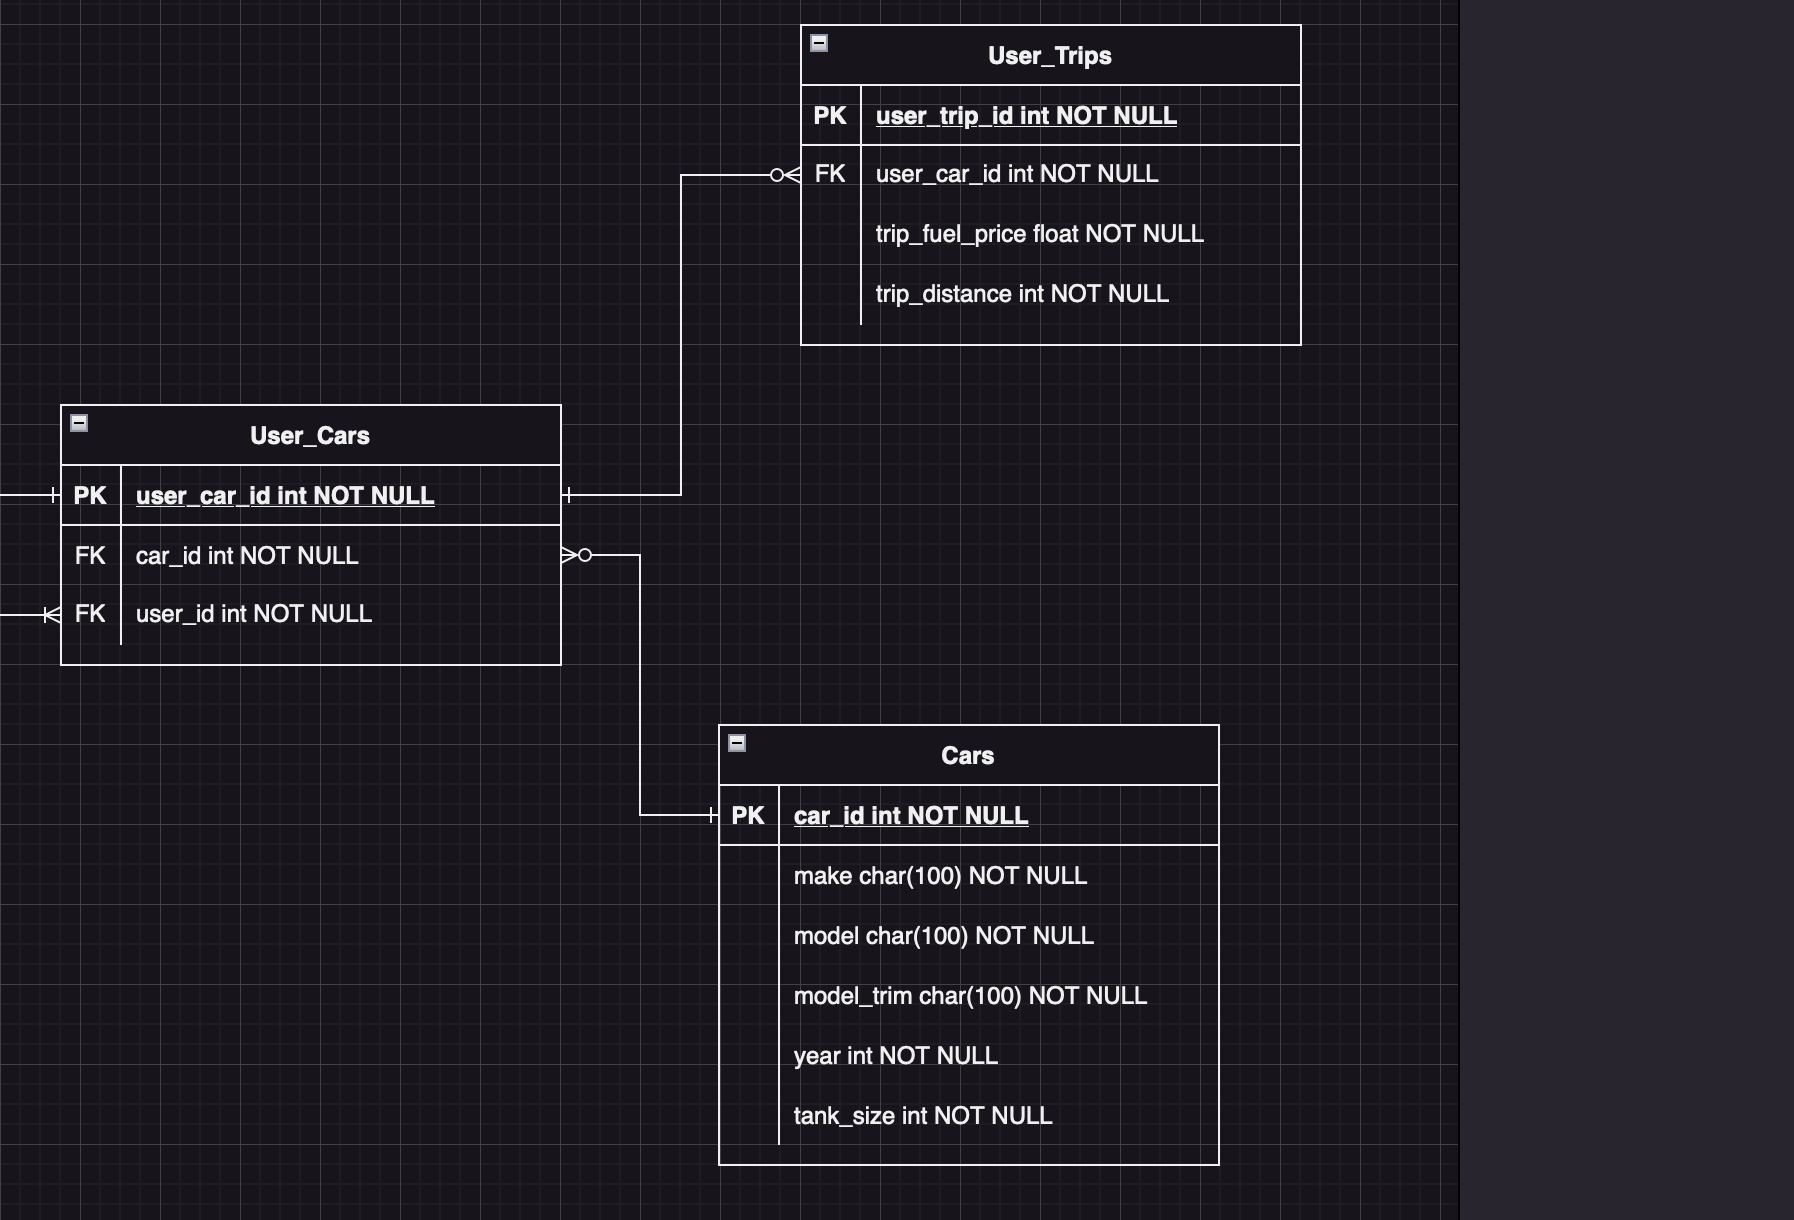
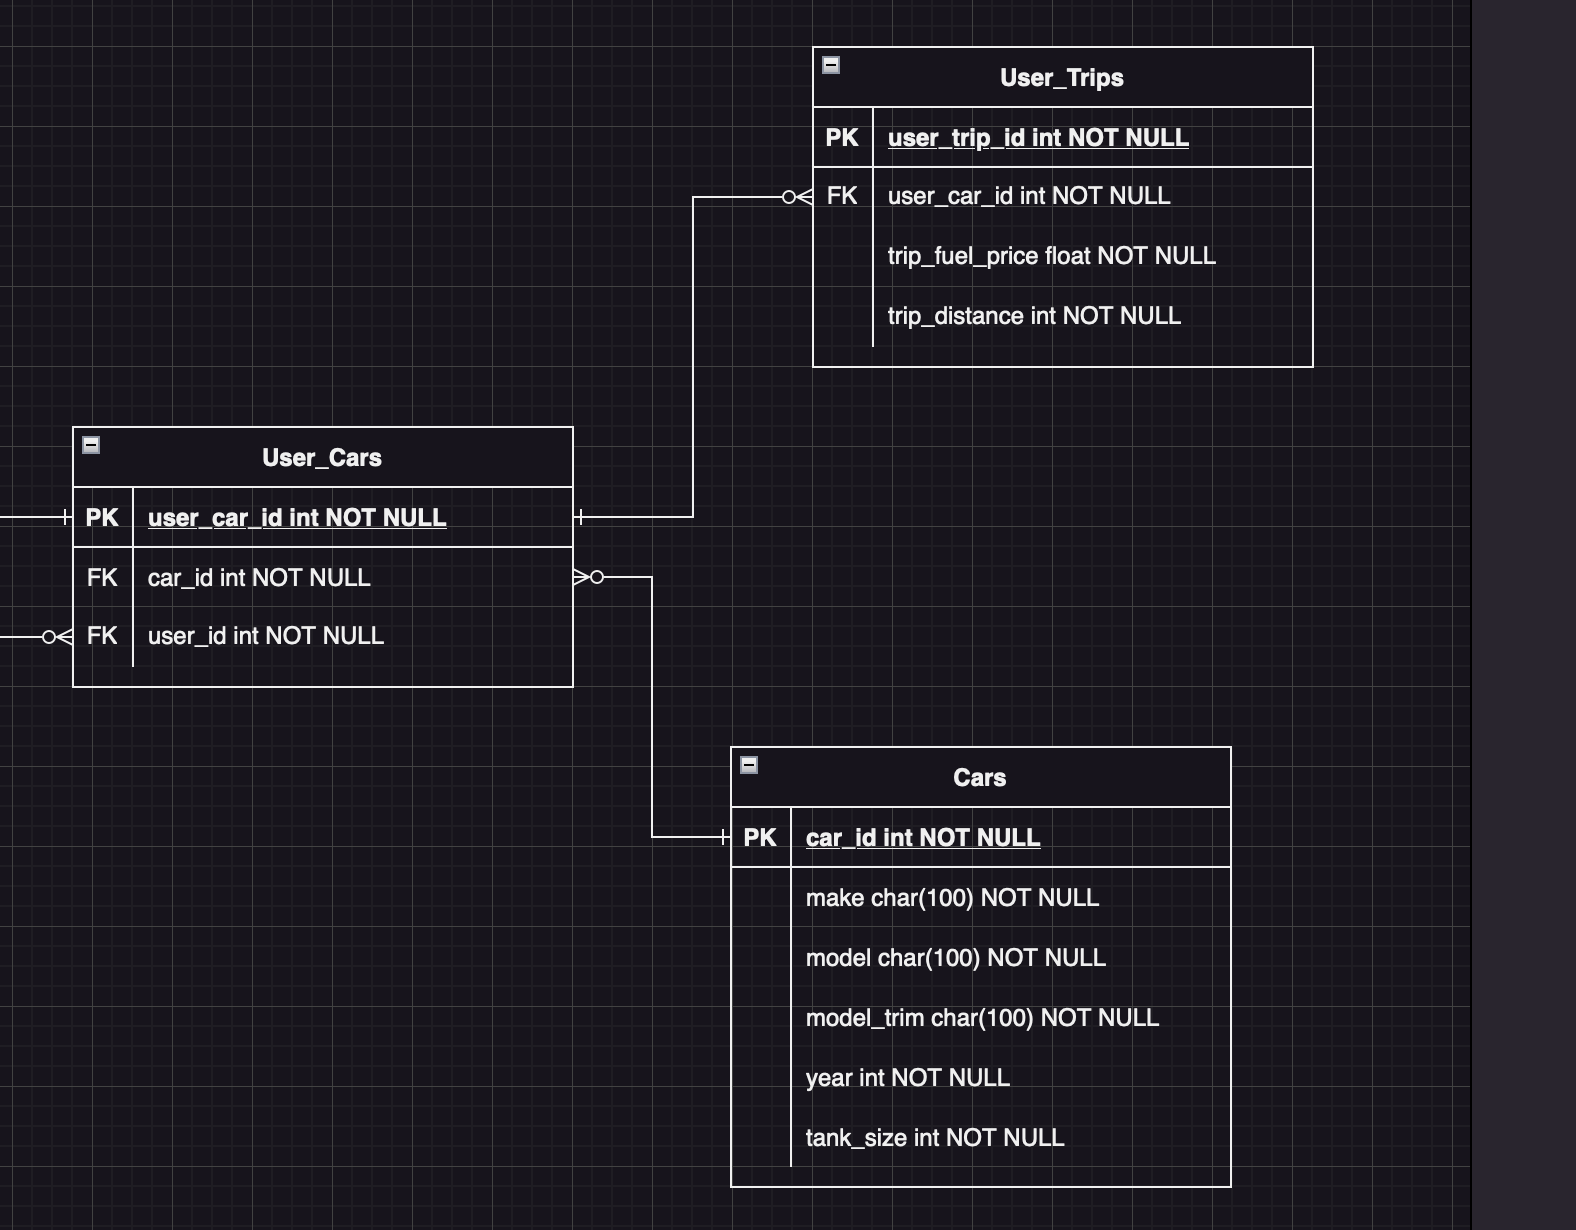
updated erd figures

diff --git a/README.md b/README.md
@@ -101,7 +101,7 @@ flask run
 The Flask application is running on the localhost on Port 5000. The endpoints can be accessed through a browser or through API development platforms such as [Postman](https://www.postman.com/) or [Insomnia](https://insomnia.rest/).
 
 ##### Seeded Users
-|email |password| Is admin? |
+|email |password| admin |
 | ---- | ---- | ---- |
 | fuellogadmin@fuellogapi.com | admin1234 | True |
 | john.smith@test.com | password123 | False |
@@ -109,9 +109,9 @@ The Flask application is running on the localhost on Port 5000. The endpoints ca
 
 ---
 
-## R5   REST API Resources
+## R5 REST API Resources
 
-Below is a full listing of all available endpoints. Click on a resource name for more information. 
+Below is a full listing of all available endpoints. Click on a resource name for more information.
 
 #### User Access and account management
 
@@ -154,19 +154,21 @@ Below is a full listing of all available endpoints. Click on a resource name for
 |[POST              /logs/me/$car_id/expenditure/](./docs/endpoints.md#post-logsmecar_idexpenditure) | Get the expenditure summary for a time period |
 |[POST              /logs/me/$car_id/expenditure/compare/](./docs/endpoints.md#post-logsmecar_idexpenditurecompare) | Compare expenditure summaries for two different periods |
 
+## [REST API Resource](./docs/endpoints.md)
+
 ---
 
 ## R7 Third Party Services
 
-This API application was created using the Flask web framework, which is a Python module that allows common interface between web servers and web applications. Because Flask was originally developed to have a small and easy-to-extend core: it's seen as a microframework and have out of the box features such as Object Relational Manager (ORM) or other features listed below. [(pythonbasics.org, 2021)](./docs/references.md#R7.1). Here are some of the third party services that were used to fully implement the API.
+This API application was created using the Flask web framework, which is a Python module that allows common interface between web servers and web applications. Because Flask was originally developed to have a small and easy-to-extend core: it's seen as a microframework and have out of the box features such as Object Relational Manager (ORM) or other features listed below. [(pythonbasics.org, 2021)](./docs/references.md#r7). Here are some of the third party services that were used to fully implement the API.
 
 ### SQLAlchemy
 
-The API uses an SQL database system to store data relating to cars, users, and log entries. In order to integrate and allow the Flask app to interact with the database, SQLAlchemy was installed as a dependency and used. SQLAlchemy is the Python ORM that is used by the app to efficiently access and perform database queries interpreting Pythonic language and then creating and executing the equivalent SQL query operation on the database. The approach that SQLAlchemy takes is that it's processes are fully exposed and it allows the developer to construct a database and the SQL queries using Python, almost the same way they would be constructed in an SQL system. [(www.sqlalchemy.org, n.d.)](./docs/references.md#R7.2)
+The API uses an SQL database system to store data relating to cars, users, and log entries. In order to integrate and allow the Flask app to interact with the database, SQLAlchemy was installed as a dependency and used. SQLAlchemy is the Python ORM that is used by the app to efficiently access and perform database queries interpreting Pythonic language and then creating and executing the equivalent SQL query operation on the database. The approach that SQLAlchemy takes is that it's processes are fully exposed and it allows the developer to construct a database and the SQL queries using Python, almost the same way they would be constructed in an SQL system. [(www.sqlalchemy.org, n.d.)](./docs/references.md#r7)
 
 ### Flask-SQLAlchemy
 
-Flask has developed an extension for SQLAlchemy to simplify the process of interacting with SQLAlchemy. It automatcally handles creating, using, and cleaning up SQLAlchemy objects. The is done by creating an extension class which then allows for cleaner SQLAlchemy operations through that extension class [(flask-sqlalchemy.palletsprojects.com, n.d.)](./docs/references.md#R7.3). i.e An SQLAlchemy model can be created using the subclass of the extension class:
+Flask has developed an extension for SQLAlchemy to simplify the process of interacting with SQLAlchemy. It automatcally handles creating, using, and cleaning up SQLAlchemy objects. The is done by creating an extension class which then allows for cleaner SQLAlchemy operations through that extension class [(flask-sqlalchemy.palletsprojects.com, n.d.)](./docs/references.md#r7). i.e An SQLAlchemy model can be created using the subclass of the extension class:
 
 ```
 # the extension class
@@ -177,32 +179,32 @@ class User(db.Model)
 
 ### Marshmallow
 
-The API uses the Marshmallow library to convert complex datatypes, to and from native Python objects. This is done through the Schema class in the Marshmallow library. It allows the app to validate input data, deserialise input data to app-level objects such as Lists or Dicts. It can also serialise app-level objects to be rendered to standard formats such JSON which can then be passed through a request. [(marshmallow.readthedocs.io, n.d.)](./docs/references.md#R7.4)
+The API uses the Marshmallow library to convert complex datatypes, to and from native Python objects. This is done through the Schema class in the Marshmallow library. It allows the app to validate input data, deserialise input data to app-level objects such as Lists or Dicts. It can also serialise app-level objects to be rendered to standard formats such JSON which can then be passed through a request. [(marshmallow.readthedocs.io, n.d.)](./docs/references.md#r7)
 
 ### Flask-Marshmallow
 
-Similar to Flask-SQLAlchemy, Flask-Marshmallow is also an extension that adds extra features which allow it to be integrated with Marhsmallow and Flask-SQLALchemy. The extension class is integrated with Flask-SQLAlchemy by being initialised after the Flask-SQLAlchemy extension class [(flask-marshmallow.readthedocs.io, n.d.)](./docs/references.md#R7.5). This extension is used to create schema classes which are used when dumping and loading JSON objects. For a schema class, fields are exposed to be dumped or loaded by the schema, and these fields are normally given a Marshmallow specific datatype class. 
+Similar to Flask-SQLAlchemy, Flask-Marshmallow is also an extension that adds extra features which allow it to be integrated with Marhsmallow and Flask-SQLALchemy. The extension class is integrated with Flask-SQLAlchemy by being initialised after the Flask-SQLAlchemy extension class [(flask-marshmallow.readthedocs.io, n.d.)](./docs/references.md#r7). This extension is used to create schema classes which are used when dumping and loading JSON objects. For a schema class, fields are exposed to be dumped or loaded by the schema, and these fields are normally given a Marshmallow specific datatype class. 
 
 ### Psycopg2-binary
 
-Psycopg is a PostgreSQL database adapter that can be used for the Python Programming language and was designed to be used for multi-threaded applications [(www.psycopg.org, n.d.)](./docs/references.md#R7.6). It allows the Flask application to connect to the PostgreSQL database, creates and destroys database cursors, and executes queries passed onto it by SQLAlchemy. [(pysql.tecladocode.com, n.d.)](./docs/references.md#R7.7)
+Psycopg is a PostgreSQL database adapter that can be used for the Python Programming language and was designed to be used for multi-threaded applications [(www.psycopg.org, n.d.)](./docs/references.md#r7). It allows the Flask application to connect to the PostgreSQL database, creates and destroys database cursors, and executes queries passed onto it by SQLAlchemy. [(pysql.tecladocode.com, n.d.)](./docs/references.md#r7)
 
 ### Flask-Bcrypt
 
-Flask-Bcrypt is used as an extension for Flask an provides the app with bcrypt hasshing utilities. Bcrypt uses a hash design that's "de-optimised", making it intentionally structured to be a slow hashing algorithm compared to other algorithms such as MD5 and SHA1. This extension when it is created and initialised in the app, provides a away for sensitive data being pass through the Flask app to be protect. [(flask-bcrypt.readthedocs.io, n.d.)](./docs/references.md#R7.8)
+Flask-Bcrypt is used as an extension for Flask an provides the app with bcrypt hasshing utilities. Bcrypt uses a hash design that's "de-optimised", making it intentionally structured to be a slow hashing algorithm compared to other algorithms such as MD5 and SHA1. This extension when it is created and initialised in the app, provides a away for sensitive data being pass through the Flask app to be protect. [(flask-bcrypt.readthedocs.io, n.d.)](./docs/references.md#r7)
 
 ### Flask-JWT-Extended
 
-This Flask extension allows the app to be able to generate JSON Web Tokens. This enables the app to protect routes and allows the app to get the identity of a JWT in a protect route. As with Flask-SQLAlchemy, Flask-Bcrypt, and Flask-Marshmallow, its utilies are made available after an extension class is created in the app. The app is secured by being configured with a JWT secret key, which is added to the JWT bearer token each time a user authenticates. [(flask-jwt-extended.readthedocs.io, n.d.)](./docs/references.md#R7.9)
+This Flask extension allows the app to be able to generate JSON Web Tokens. This enables the app to protect routes and allows the app to get the identity of a JWT in a protect route. As with Flask-SQLAlchemy, Flask-Bcrypt, and Flask-Marshmallow, its utilies are made available after an extension class is created in the app. The app is secured by being configured with a JWT secret key, which is added to the JWT bearer token each time a user authenticates. [(flask-jwt-extended.readthedocs.io, n.d.)](./docs/references.md#r7)
 
 ### Python-Dotenv
 
-This third party service is used for reading key-value pairs from .env files and sets theses pairs as environment variables which can be access by an application [(Kumar, n.d.)](./docs/references.md#-R7.10). Python-Dotenv was used to read the .env file in the application src root which was setup to configure the database URI and the JWT secret ket. An example of how these app properties would be configured from an .env file and accessed using Python-Dotenv is shown below.
+This third party service is used for reading key-value pairs from .env files and sets theses pairs as environment variables which can be access by an application [(Kumar, n.d.)](./docs/references.md#r7). Python-Dotenv was used to read the .env file in the application src root which was setup to configure the database URI and the JWT secret ket. An example of how these app properties would be configured from an .env file and accessed using Python-Dotenv is shown below.
 
 ![.env.sample](./docs/env_sample.png)
 **Fig. 1**
 
-[References](./docs/references.md#-R7)
+## [References](./docs/references.md#r7)
 
 ---
 
@@ -242,33 +244,45 @@ The following entities were designed using an [ERM](./docs/ERM.png) and the ERD 
     - The users entity contains records of users who are able to access the API endpoints. When a user registers, they provide an email and password. There can only be one record associated with an email, while the user doesn't have to provide a first and last name. A user is assigned a boolean value based on whether they're an administrator or not. The defualt value when a user is created is False.
     
 ![users-user-car](./docs/users-user-cars.png)
-**Fig. 3**: Users and User Cars in [ERD](#-r6-erd)
+**Fig. 3**: Users and User Cars in [ERD](#r6-erd)
 
 - User Cars
     -
     - User cars is a join table for the Users and Cars entity and each record contains a user ID and car ID.
 
 - Log Entries
-    -
     - 
+    - The log entries entity contains the records of all log entries for all user cars. For the attributes, seen in Fig. 4 below, "current_odo", "fuel_quantity", and "fuel_price" require user inputs while the date for each log is automatically added each time a new record is created.
 
 ![log-entries-user-car](./docs/log_entries_user_car.png)
-**Fig. 3**: Log Entries and User Cars in [ERD](#-r6-erd)
+**Fig. 4**: Log Entries and User Cars in [ERD](#r6-erd)
 
 - Cars
     -
-    -
+    - The cars entity contains records of car types that a user may have. Every attribute has the NOT NULL property while a three column key constraint is placed on the entity using "make", "model", and "model_trim". 
 
 ![cars-user-trips](./docs/cars_user_trips.png)
-**Fig. 4**: Cars and User Trips [ERD](#-r6-erd)
+**Fig. 5**: Cars and User Trips [ERD](#r6-erd)
 
 - User Trips
     -
-    -
+    - In the user trips entity (Fig. 5 above), a user car and distance travelled for the trip plus the cost of fuel is stored in each record. Both distance and fuel price have the NOT NULL property.
 
 ##### Cars and Users: Many to Many Relationship
 
+The relationship between the cars and users entities is a many to many relationship. A user can have many cars and a car of a specific make, model, and model trim can be owned by many users. Because of this relationship between users and cars, a joining table called "user_cars" was created. This joining table allowed a one to many relationship for the users and cars entities i.e. a user can have many "user_cars" and a car can belong to many "user_cars". 
+
+As seen in Fig. 6 below, a user can have zero or many user cars and a user car belongs to only one user. A car type on the other end can be owned by zero or many users and a user car has only one specific car type.
+
+![users-cars-many](./docs/users-cars-many.png)
+**Fig. 6**: Cars and User Trips [ERD](#r6-erd)
+
 ##### Cars and Log Entries: One to Many Relationship
+
+Cars and log entries have a one to many relationship. 
+
+![log-entries-user-car](./docs/log_entries_user_car.png)
+**Fig. 7**: Log Entries and User Cars in [ERD](#r6-erd)
 
 ##### Users and User Trips: Many to Many Relationship
 
